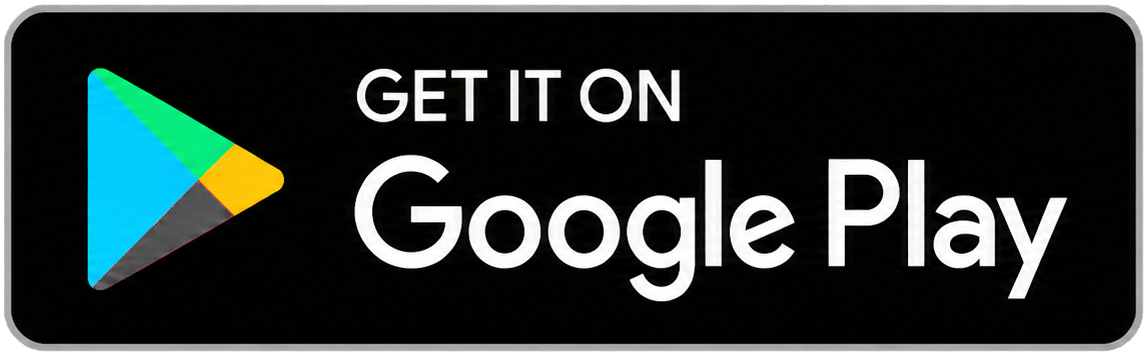
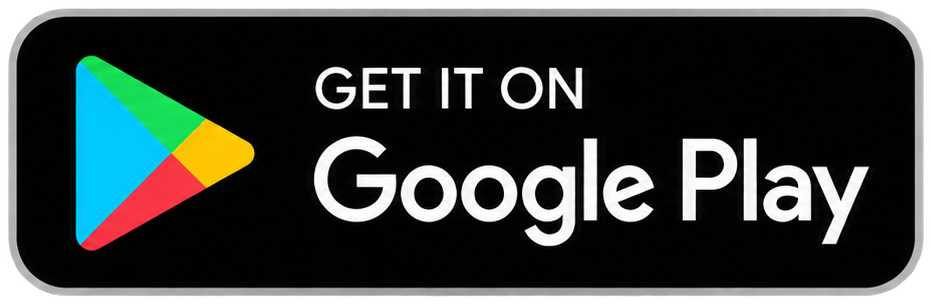
Split store badges into separate buttons

diff --git a/app/page.tsx b/app/page.tsx
@@ -118,7 +118,7 @@ export default function Home() {
 
       <section className="moments-section"><div className="section-heading"><div><p className="eyebrow"><i /> REAL USER MOMENTS</p><h2>실제 사용자들의 <em>경험의 순간</em></h2><p>평범한 사진 속, 보이지 않던 존재가 나타납니다.</p></div><a href="#contact">더 많은 사례 보기 <b>↗</b></a></div><div className="moments-grid">{samples.map(([title, src], index) => <article className={`moment moment-${index + 1}`} key={title}><div className="moment-image" style={{ backgroundImage: `url(${src})` }} /><div className="moment-overlay" /><span>{title}</span><small>GHOSTCAM / 0{index + 1}</small></article>)}</div></section>
 
-      <section className="platform-section" id="contact"><article className="platform-showcase"><div className="platform-showcase-copy"><span className="platform-label">GHOSTCAM APP</span><h2>휴대폰 하나로<br />직접 <em>탐지</em>해보세요</h2><p className="platform-lead">지금 내 주변에 귀신이 있다면?<br />직접 찾아보세요.</p><p>실시간 주변 스캔과 카메라를 활용해<br />주변의 이상 신호를 확인할 수 있습니다.</p><ul><li><b className="feature-icon"><svg viewBox="0 0 32 32" aria-hidden="true"><circle cx="16" cy="16" r="10"/><circle cx="16" cy="16" r="4"/><path d="M16 2v5M16 25v5M2 16h5M25 16h5M9 9l3 3M20 20l3 3M23 9l-3 3M12 20l-3 3"/></svg></b><span><strong>실시간 주변 스캔</strong><small>주변의 움직임을 추적합니다.</small></span></li><li><b className="feature-icon"><svg viewBox="0 0 32 32" aria-hidden="true"><path d="M5 10h5l2-3h8l2 3h5v15H5z"/><circle cx="16" cy="17" r="5"/><path d="M25 12h.01"/></svg></b><span><strong>카메라 탐지</strong><small>신호가 감지된 방향을 확인합니다.</small></span></li><li><b className="feature-icon"><svg viewBox="0 0 32 32" aria-hidden="true"><path d="M2 17h5l3-8 4 14 4-17 3 11h9"/></svg></b><span><strong>이상 신호 감지</strong><small>주변의 이상 신호를 감지합니다.</small></span></li><li><b className="feature-icon"><svg viewBox="0 0 32 32" aria-hidden="true"><circle cx="16" cy="16" r="8"/><circle cx="16" cy="16" r="2"/><path d="M16 2v6M16 24v6M2 16h6M24 16h6"/></svg></b><span><strong>직접 확인</strong><small>카메라로 현장을 확인해보세요.</small></span></li></ul><button onClick={() => inputRef.current?.click()}>앱 자세히 보기 <b>↗</b></button></div><div className="showcase-composite"><img src="/assets/ghostcam-phones-only.png" alt="GhostCam 앱 휴대폰 3개 화면" /></div></article><div className="download-strip"><img className="download-device-image" src="/assets/download-device.svg" alt="앱 아이콘" /><span className="download-copy">지금 앱을 다운로드하고<br /><em>더 강력한 탐지 경험</em>을 시작하세요</span><img className="download-store-badges-image" src="/assets/download-store-badges-generated.png" alt="App Store 및 Google Play에서 다운로드" /><span className="qr-badge">▦</span><small>QR 코드를 스캔해<br />앱으로 바로 시작하세요.</small></div></section>
+      <section className="platform-section" id="contact"><article className="platform-showcase"><div className="platform-showcase-copy"><span className="platform-label">GHOSTCAM APP</span><h2>휴대폰 하나로<br />직접 <em>탐지</em>해보세요</h2><p className="platform-lead">지금 내 주변에 귀신이 있다면?<br />직접 찾아보세요.</p><p>실시간 주변 스캔과 카메라를 활용해<br />주변의 이상 신호를 확인할 수 있습니다.</p><ul><li><b className="feature-icon"><svg viewBox="0 0 32 32" aria-hidden="true"><circle cx="16" cy="16" r="10"/><circle cx="16" cy="16" r="4"/><path d="M16 2v5M16 25v5M2 16h5M25 16h5M9 9l3 3M20 20l3 3M23 9l-3 3M12 20l-3 3"/></svg></b><span><strong>실시간 주변 스캔</strong><small>주변의 움직임을 추적합니다.</small></span></li><li><b className="feature-icon"><svg viewBox="0 0 32 32" aria-hidden="true"><path d="M5 10h5l2-3h8l2 3h5v15H5z"/><circle cx="16" cy="17" r="5"/><path d="M25 12h.01"/></svg></b><span><strong>카메라 탐지</strong><small>신호가 감지된 방향을 확인합니다.</small></span></li><li><b className="feature-icon"><svg viewBox="0 0 32 32" aria-hidden="true"><path d="M2 17h5l3-8 4 14 4-17 3 11h9"/></svg></b><span><strong>이상 신호 감지</strong><small>주변의 이상 신호를 감지합니다.</small></span></li><li><b className="feature-icon"><svg viewBox="0 0 32 32" aria-hidden="true"><circle cx="16" cy="16" r="8"/><circle cx="16" cy="16" r="2"/><path d="M16 2v6M16 24v6M2 16h6M24 16h6"/></svg></b><span><strong>직접 확인</strong><small>카메라로 현장을 확인해보세요.</small></span></li></ul><button onClick={() => inputRef.current?.click()}>앱 자세히 보기 <b>↗</b></button></div><div className="showcase-composite"><img src="/assets/ghostcam-phones-only.png" alt="GhostCam 앱 휴대폰 3개 화면" /></div></article><div className="download-strip"><img className="download-device-image" src="/assets/download-device.svg" alt="앱 아이콘" /><span className="download-copy">지금 앱을 다운로드하고<br /><em>더 강력한 탐지 경험</em>을 시작하세요</span><a className="download-store-link" href="#" aria-label="App Store 다운로드 준비 중" onClick={(event) => event.preventDefault()}><img src="/assets/download-appstore-generated.png" alt="App Store에서 다운로드" /></a><a className="download-store-link" href="#" aria-label="Google Play 다운로드 준비 중" onClick={(event) => event.preventDefault()}><img src="/assets/download-googleplay-generated.png" alt="Google Play에서 다운로드" /></a><span className="qr-badge">▦</span><small>QR 코드를 스캔해<br />앱으로 바로 시작하세요.</small></div></section>
       <footer className="site-footer"><div><a className="logo" href="#top">Ghost<span>Cam</span></a><p>© 2026 GhostCam. All rights reserved.</p></div><div className="footer-links"><a href="/terms">이용약관</a><a href="/privacy">개인정보처리방침</a><a href="#contact">문의하기</a></div><div className="socials"><span>◎</span><span>◌</span><span>✦</span></div></footer>
     </main>
   );

diff --git a/app/globals.css b/app/globals.css
@@ -328,15 +328,17 @@ button { font:inherit; cursor:pointer; color:inherit; }
   font-size:20px !important;
   line-height:1.08 !important;
 }
-.download-store-badges-image {
+.download-store-link {
   display:block !important;
-  width:272px !important;
-  height:auto !important;
-  flex:0 0 272px !important;
-  object-fit:contain !important;
-  object-position:center !important;
+  width:136px !important;
+  height:46px !important;
+  flex:0 0 136px !important;
+  overflow:hidden !important;
+  line-height:0 !important;
 }
-.download-store-badges-image { order:3 !important; padding:0 !important; box-sizing:border-box !important; }
+.download-store-link { order:3 !important; padding:0 !important; box-sizing:border-box !important; }
+.download-store-link + .download-store-link { order:4 !important; }
+.download-store-link img { display:block; width:100%; height:100%; object-fit:contain; }
 .qr-badge {
   order:5 !important;
   width:48px !important;
@@ -353,7 +355,7 @@ button { font:inherit; cursor:pointer; color:inherit; }
 @media(max-width:1100px) and (min-width:861px) {
   .download-strip { gap:10px !important; padding:0 15px !important; }
   .download-copy { font-size:16px !important; }
-  .download-store-badges-image { width:224px !important; flex-basis:224px !important; }
+  .download-store-link { width:112px !important; height:38px !important; flex-basis:112px !important; }
   .download-device-image { width:28px !important; height:48px !important; flex-basis:28px !important; }
   .qr-badge { width:40px !important; height:40px !important; flex-basis:40px !important; }
 }
@@ -361,7 +363,9 @@ button { font:inherit; cursor:pointer; color:inherit; }
   .download-strip { height:auto !important; min-height:150px !important; display:grid !important; grid-template-columns:32px 1fr 1fr !important; gap:10px !important; padding:16px !important; }
   .download-device-image { grid-column:1 !important; grid-row:1 !important; width:28px !important; height:48px !important; }
   .download-copy { grid-column:2 / -1 !important; grid-row:1 !important; white-space:normal !important; font-size:17px !important; }
-  .download-store-badges-image { grid-column:2 / -1 !important; grid-row:2 !important; width:100% !important; max-width:224px !important; flex-basis:auto !important; justify-self:start !important; }
+  .download-store-link { width:100% !important; height:auto !important; aspect-ratio:3 / 1 !important; flex-basis:auto !important; justify-self:stretch !important; }
+  .download-store-link:first-of-type { grid-column:2 !important; grid-row:2 !important; }
+  .download-store-link + .download-store-link { grid-column:3 !important; grid-row:2 !important; }
   .qr-badge { grid-column:1 !important; grid-row:3 !important; width:40px !important; height:40px !important; flex-basis:auto !important; }
   .download-strip > small { grid-column:2 / -1 !important; grid-row:3 !important; font-size:7px !important; }
 }
